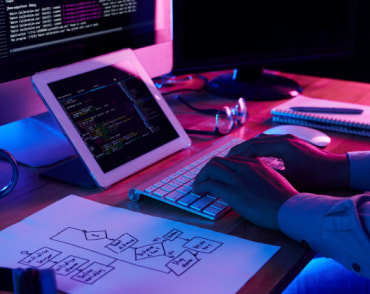
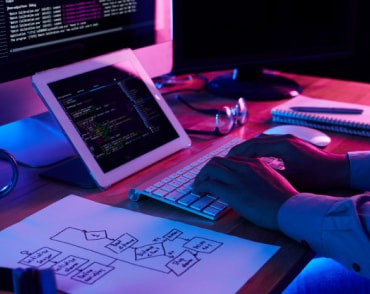
Updated about

diff --git a/index.html b/index.html
@@ -201,20 +201,29 @@
         <h2 class="about-title">Чем мы занимаемся</h2>
         <ul class="list about-list">
           <li class="about-list__item">
-            <img class="about-list__img" src="./images/section-about/box-1.jpg"
+            <img class="about-list__img" 
+            srcset="./images/section-about/img-1.jpg 1x,
+            ./images/section-about/img1@2x.jpg 2x"
+            src="./images/section-about/img-1.jpg"
               alt="image-programer-working-his-desk-office" width="370" height="294" />
             <div class="about-list__item-caption">
               <p class="text-line">Десктопные приложения</p>
             </div>
           </li>
           <li class="about-list__item">
-            <img class="about-list__img" src="./images/section-about/box-2.jpg"
+            <img class="about-list__img" 
+            srcset="./images/section-about/img-2.jpg 1x,
+            ./images/section-about/img2@2x.jpg 2x"
+            src="./images/section-about/img-2.jpg"
               alt="image-programer-working-his-desk-office" width="370" height="294" />
             <div class="about-list__item-caption">
               <p class="text-line">Мобильные приложения</p>
           </li>
           <li class="about-list__item">
-            <img class="about-list__img" src="./images/section-about/box-3.jpg"
+            <img class="about-list__img"
+            srcset="./images/section-about/img-3.jpg 1x,
+            ./images/section-about/img3@2x.jpg 2x"
+            src="./images/section-about/img-3.jpg"
               alt="image-web-design-working-colour-selection-graphic-tablet" width="370" height="294" />
             <div class="about-list__item-caption">
               <p class="text-line">Дизайнерские решения</p>
